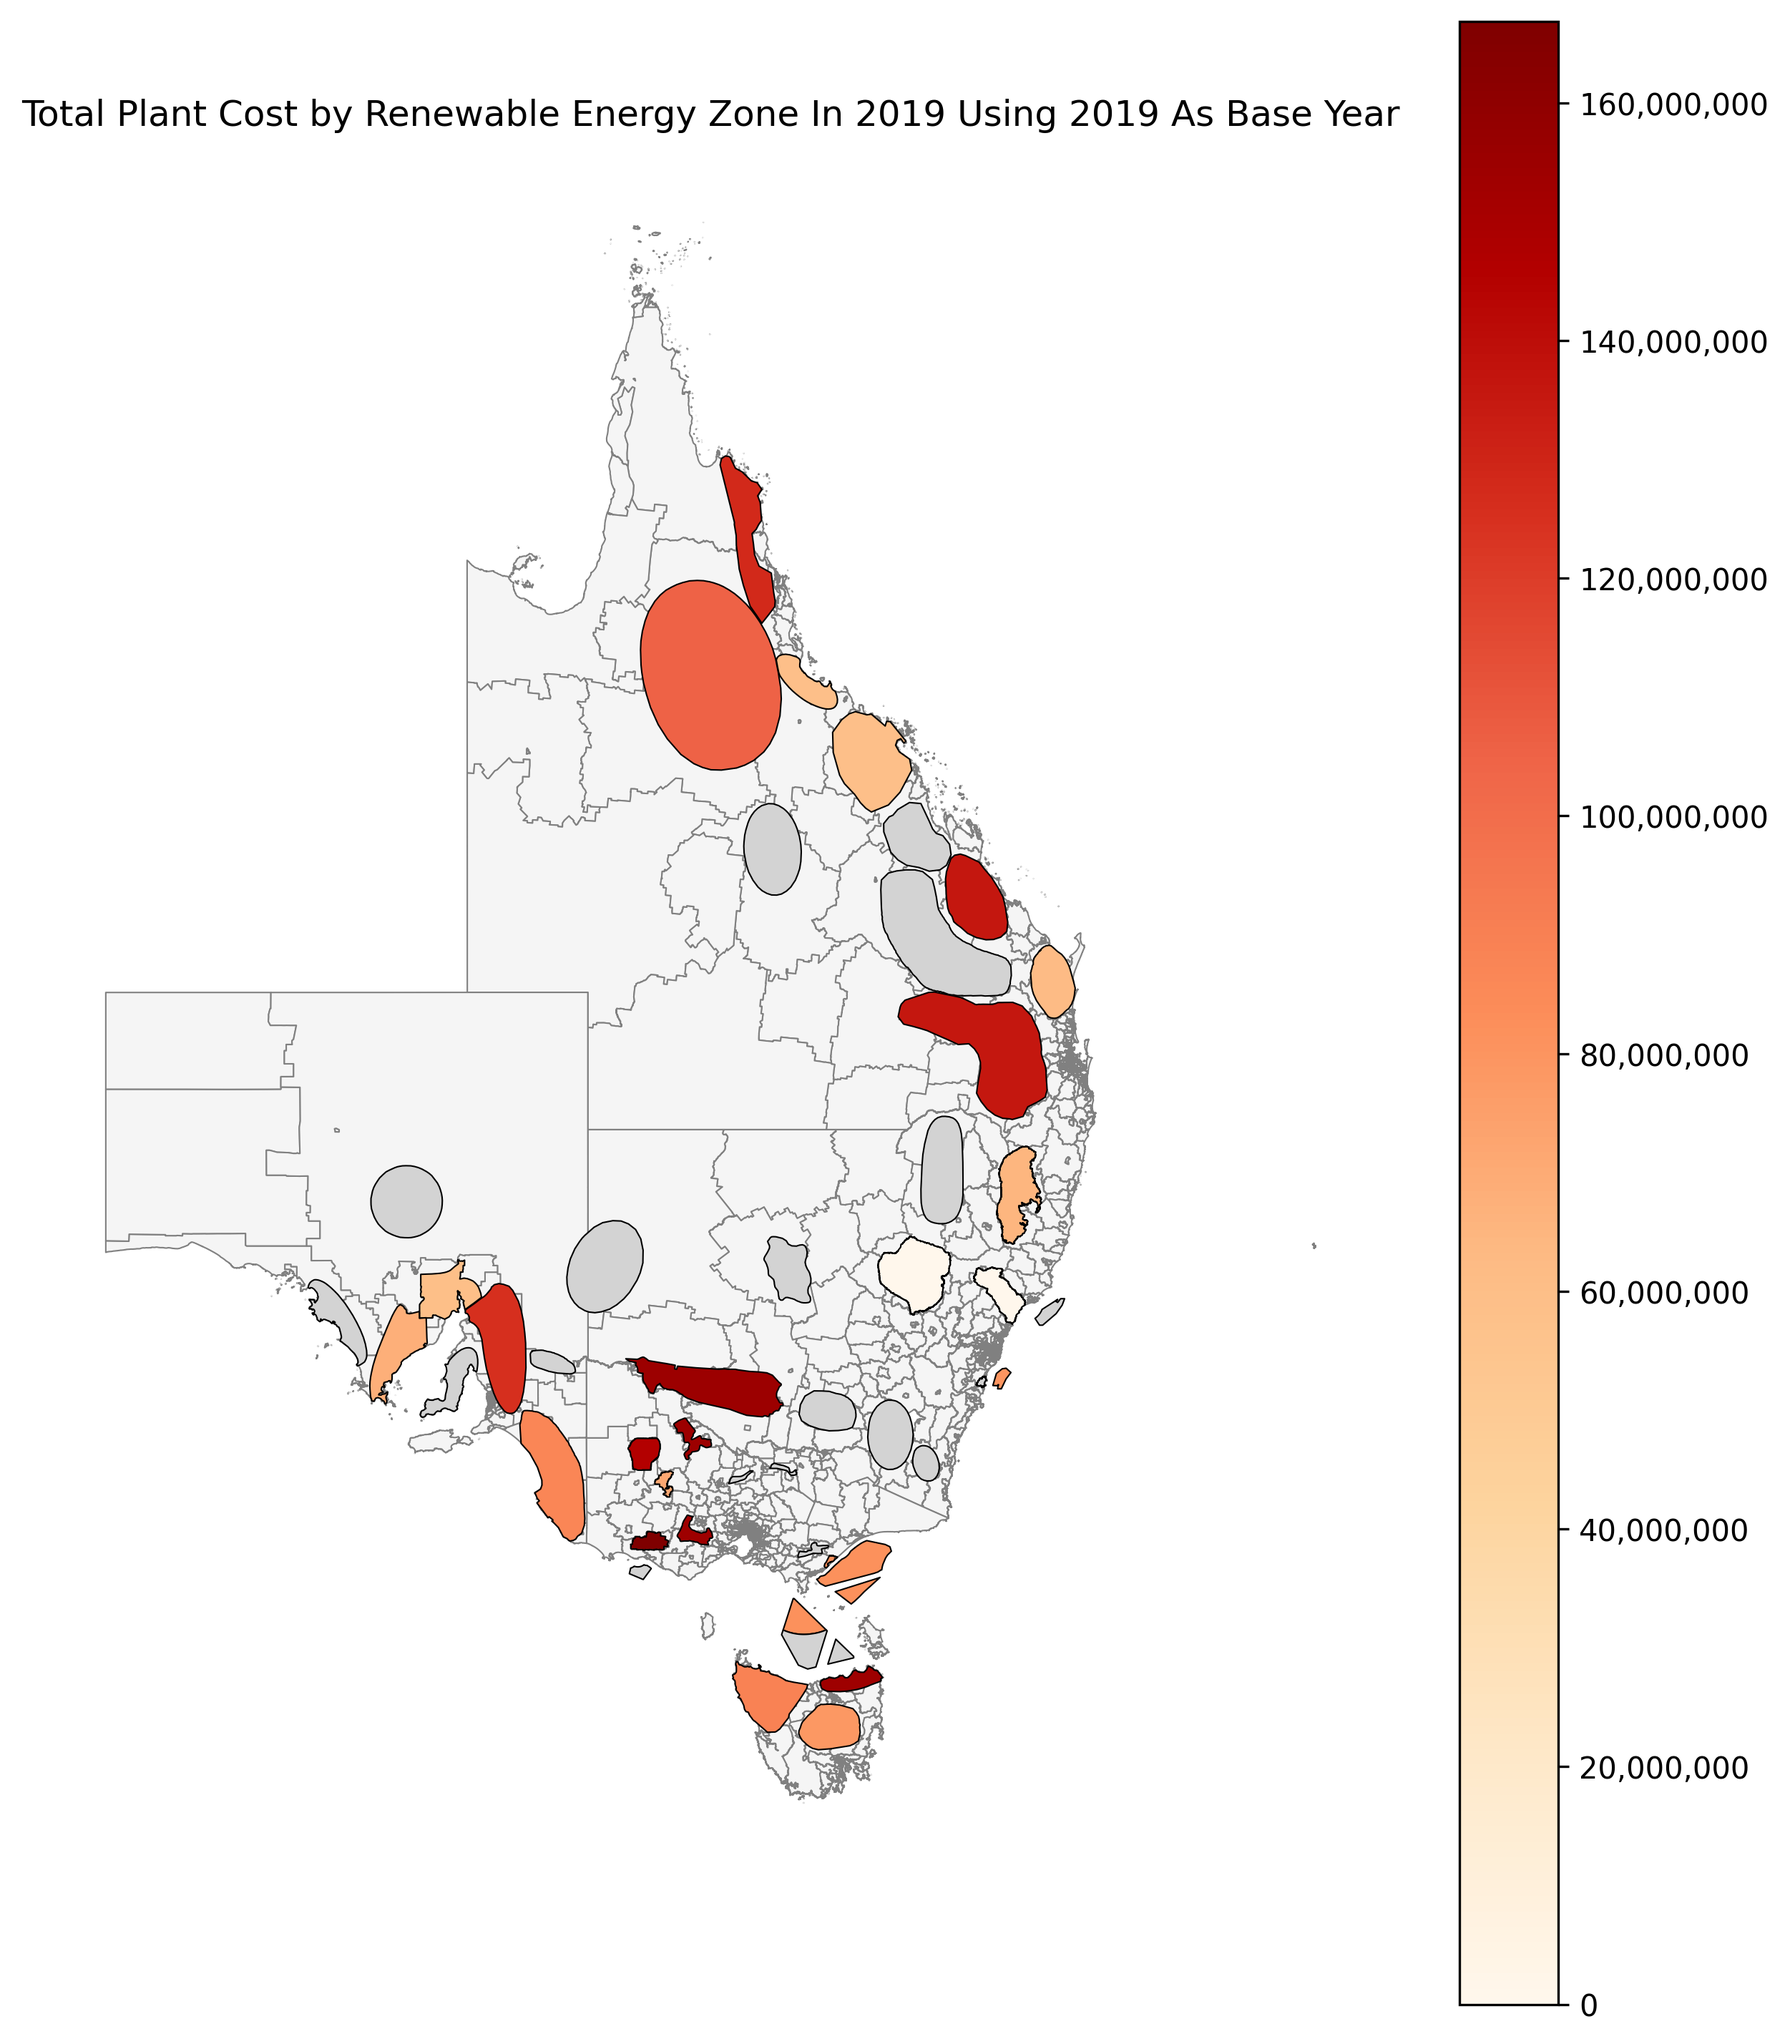
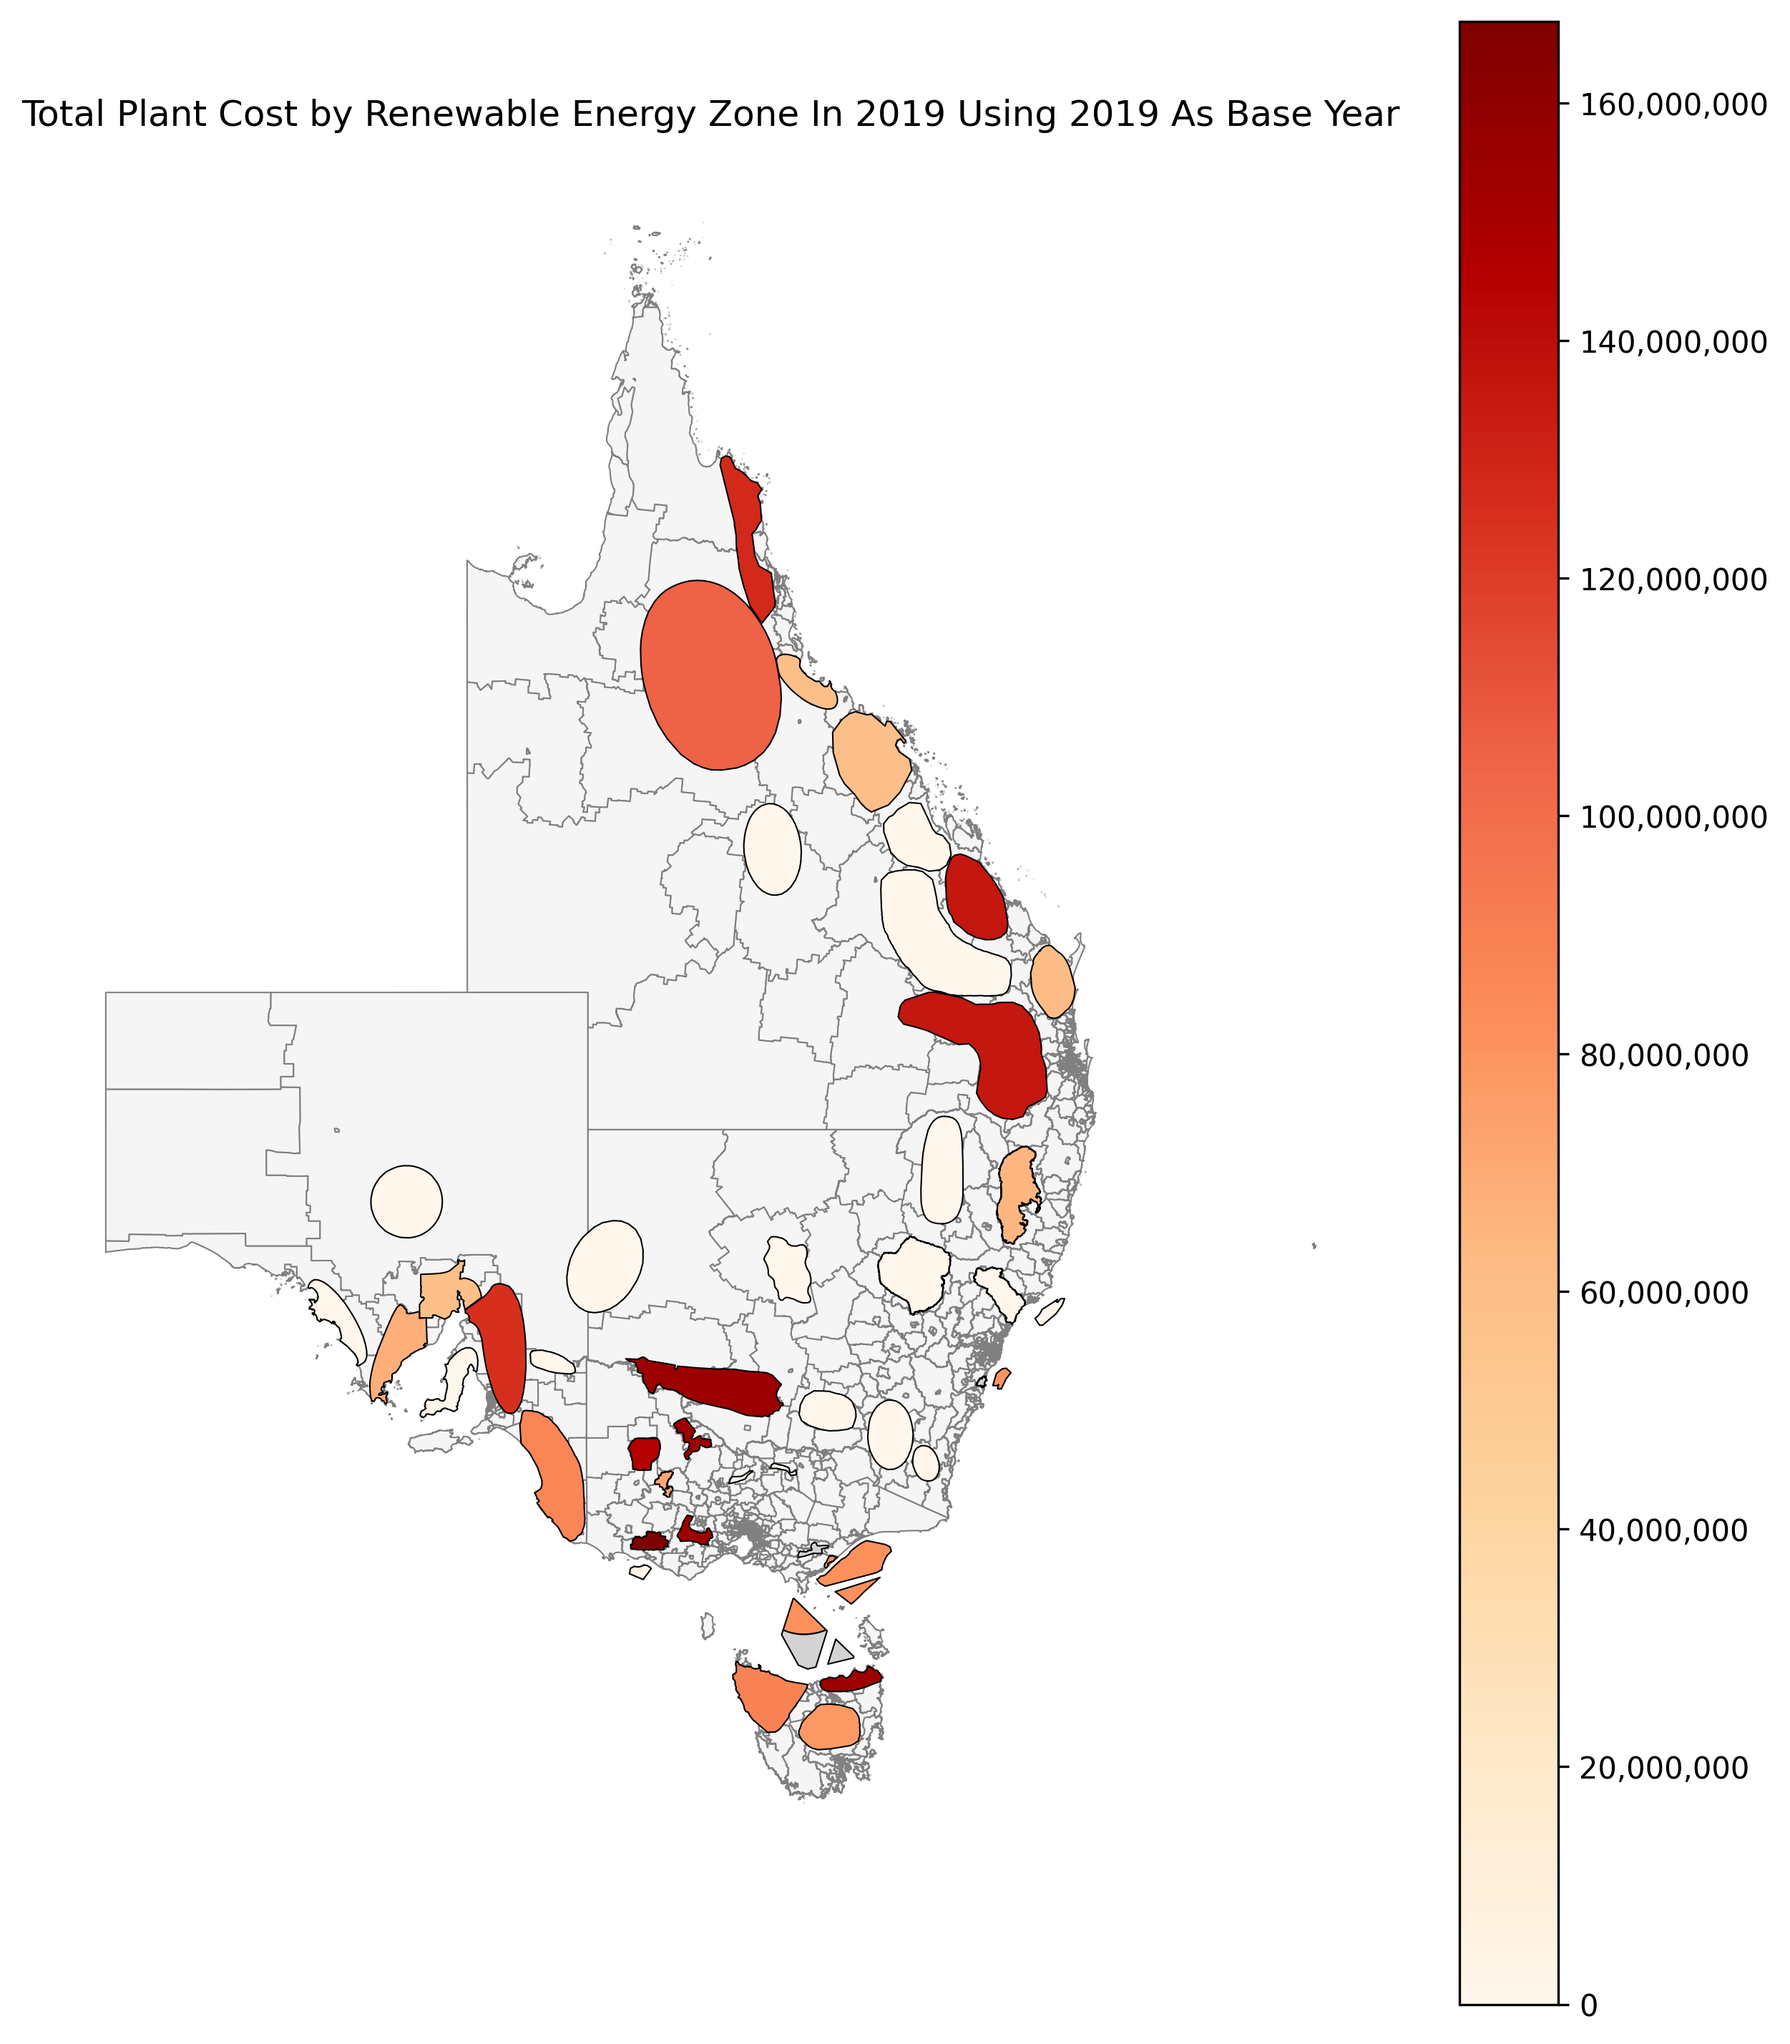
update

diff --git a/Codes/fyp_code_1805.py b/Codes/fyp_code_1805.py
@@ -184,8 +184,8 @@ text_val = loc_data["Project Name"]
 state_val = loc_data["State"]
 
 #numLocs = len(lat_val)
-numLocs = 10  #manually input 10 as not all data has been downloaded
-state = "VIC data/"
+numLocs = 5  #manually input 10 as not all data has been downloaded
+state = "NSW data/"
 
 #Uncomment this for a variable energy requirement profile 
 
@@ -214,8 +214,8 @@ if(True):
     
     for loc in range(numLocs):  #opens each location's file
 
-        filename_solar = directory_main + str(state_val[loc]) + " data old/" + in_yr + "_pv_" + str(lat_val[loc]) + "_" + str(lon_val[loc]) + ".csv"
-        filename_wind = directory_main + str(state_val[loc]) + " data old/" + in_yr + "_wind_" + str(lat_val[loc]) + "_" + str(lon_val[loc]) + ".csv"
+        filename_solar = directory_main + str(state_val[loc]) + " data/" + in_yr + "_pv_" + str(lat_val[loc]) + "_" + str(lon_val[loc]) + ".csv"
+        filename_wind = directory_main + str(state_val[loc]) + " data/" + in_yr + "_wind_" + str(lat_val[loc]) + "_" + str(lon_val[loc]) + ".csv"
    
         solarDataraw = pd.read_csv(str(filename_solar),skiprows=3)
         solarData = solarDataraw.to_xarray()
@@ -317,8 +317,8 @@ if(True):
         windCF_future = []
 
         for i in data_years:      
-            filename_solar = directory_main + str(state_val[loc]) + " data old/" + str(i) + "_pv_" + str(lat_val[loc]) + "_" + str(lon_val[loc]) + ".csv"
-            filename_wind = directory_main + str(state_val[loc]) +  " data old/" + str(i) + "_wind_" + str(lat_val[loc]) + "_" + str(lon_val[loc]) + ".csv"
+            filename_solar = directory_main + str(state_val[loc]) + " data/" + str(i) + "_pv_" + str(lat_val[loc]) + "_" + str(lon_val[loc]) + ".csv"
+            filename_wind = directory_main + str(state_val[loc]) +  " data/" + str(i) + "_wind_" + str(lat_val[loc]) + "_" + str(lon_val[loc]) + ".csv"
         
             solarDataraw = pd.read_csv(str(filename_solar),skiprows=3)
             solarData = solarDataraw.to_xarray()

diff --git a/Codes/rex map plot.py b/Codes/rex map plot.py
@@ -39,9 +39,9 @@ projects = gpd.GeoDataFrame(
 rez = gpd.read_file("kmz_extracted/doc.kml").to_crs("EPSG:4326")
 matched = gpd.sjoin(projects, rez, how="left", predicate="within")
 
-#result = matched[["Project Name", "Lat", "Lon", "State", "Name"]].rename(columns={"Name": "REZ"})
+result = matched[["Project Name", "Lat", "Lon", "State", "Name"]].rename(columns={"Name": "REZ"})
 
-#result.to_csv("projects_matched_to_rez.csv", index=False)
+result.to_csv("projects_matched_to_rez.csv", index=False)
 #print(result)
 aus_map = gpd.read_file(user_directory + "SA2_2026_AUST_SHP_GDA2020/SA2_2026_AUST_GDA2020.shp").to_crs("EPSG:4326")
 states_to_show = ["New South Wales", "Victoria","Queensland","South Australia","Tasmania"]
